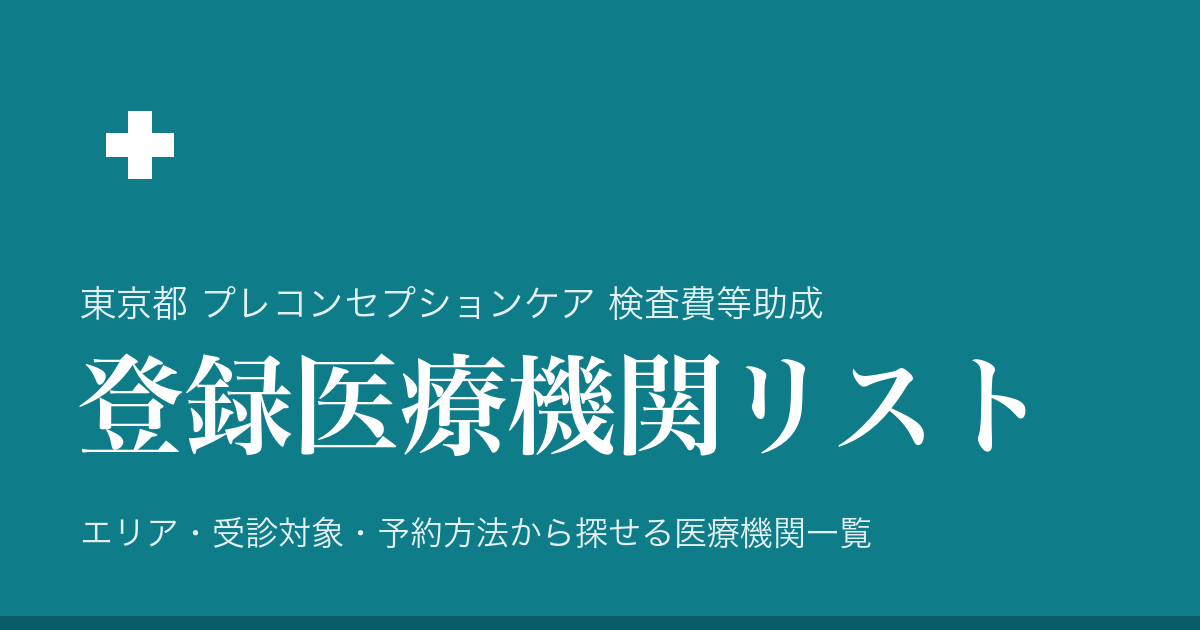
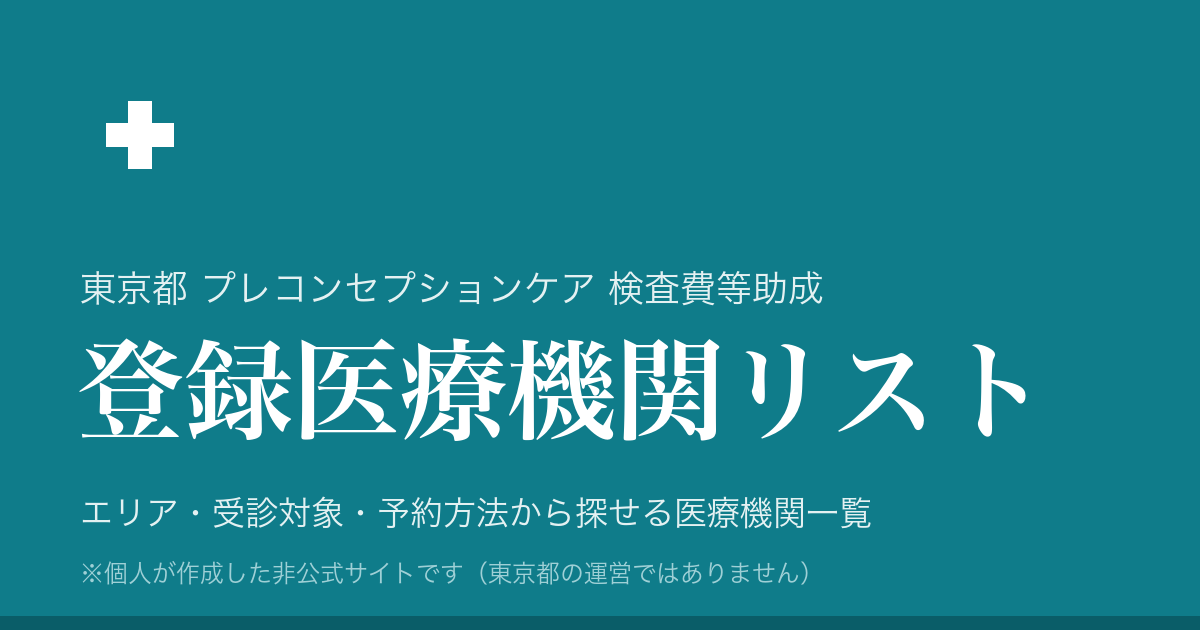
State clearly that the site is unofficial
OGP画像・og:title/description・meta description・title・
ページのヘッダーとフッター・READMEに非公式である旨を明記。

diff --git a/index.html b/index.html
@@ -3,15 +3,15 @@
 <head>
 <meta charset="utf-8">
 <meta name="viewport" content="width=device-width, initial-scale=1">
-<title>プレコンセプションケア 検査費等助成 登録医療機関（令和8年8月31日時点）</title>
+<title>プレコンセプションケア 検査費等助成 登録医療機関（令和8年8月31日時点）｜非公式</title>
 <link rel="icon" href="asset/favicon.svg" type="image/svg+xml">
 <link rel="icon" href="asset/favicon.ico" sizes="32x32">
 <link rel="apple-touch-icon" href="asset/apple-touch-icon.png">
 <meta name="theme-color" content="#0f7c8a">
-<meta name="description" content="東京都のプレコンセプションケア検査費等助成に登録している医療機関の一覧（令和8年8月31日時点）。エリア・受診対象・予約方法から検索できます。">
+<meta name="description" content="東京都のプレコンセプションケア検査費等助成に登録している医療機関の一覧（令和8年8月31日時点）。エリア・受診対象・予約方法から検索できます。個人が作成した非公式サイトであり、東京都が運営するものではありません。">
 <meta property="og:type" content="website">
-<meta property="og:title" content="プレコンセプションケア 検査費等助成 登録医療機関リスト">
-<meta property="og:description" content="東京都のプレコンセプションケア検査費等助成に登録している医療機関の一覧（令和8年8月31日時点）。エリア・受診対象・予約方法から検索できます。">
+<meta property="og:title" content="プレコンセプションケア 検査費等助成 登録医療機関リスト（非公式）">
+<meta property="og:description" content="東京都のプレコンセプションケア検査費等助成に登録している医療機関の一覧（令和8年8月31日時点）。エリア・受診対象・予約方法から検索できます。個人が作成した非公式サイトであり、東京都が運営するものではありません。">
 <meta property="og:url" content="https://shinnosuke-k.github.io/precon-clinics-tokyo/">
 <meta property="og:image" content="https://shinnosuke-k.github.io/precon-clinics-tokyo/asset/ogp.png">
 <meta property="og:image:width" content="1200">
@@ -162,7 +162,7 @@ footer li{margin-bottom:4px}
     <p class="kicker">東京ユースヘルスケア推進事業（プレコンセプションケアに係る取組）／検査費等助成事業</p>
     <h1>登録医療機関リスト<br>令和8年8月31日時点</h1>
     <p class="lede">東京都の助成事業に登録している医療機関の一覧です。エリア・受診できる対象・予約方法から絞り込み、各機関の料金と検査メニューを確認できます。</p>
-    <p class="src">出典：東京都福祉局「<a href="https://www.fukushi.metro.tokyo.lg.jp/kodomo/shussan/preconceptioncare" target="_blank" rel="noopener">プレコンセプションケア</a>」ページ公開の登録医療機関リスト</p>
+    <p class="src">出典：東京都福祉局「<a href="https://www.fukushi.metro.tokyo.lg.jp/kodomo/shussan/preconceptioncare" target="_blank" rel="noopener">プレコンセプションケア</a>」ページ公開の登録医療機関リスト<br>本サイトは個人が作成した非公式のページです（東京都の運営ではありません）</p>
     <div class="facts">
       <span class="fact"><b id="f-total">0</b>機関</span>
       <span class="fact"><b id="f-ward">0</b>区市町村</span>
@@ -220,6 +220,7 @@ footer li{margin-bottom:4px}
       <li>受診にあたり、本事業の助成対象ではない費用がかかる場合があります。予約の際にあらかじめご確認ください。</li>
       <li>料金は各機関が回答した時点のものです（各詳細の末尾に時点を記載）。表示は税込・円。</li>
       <li>このページは東京都福祉局「<a href="https://www.fukushi.metro.tokyo.lg.jp/kodomo/shussan/preconceptioncare" target="_blank" rel="noopener">プレコンセプションケア</a>」ページで公開されているExcel「登録医療機関リスト（令和8年8月31日時点）」を読みやすく組み直したものです。原本の記載を変更していません。</li>
+      <li>本サイトは個人が作成した非公式のページであり、東京都・東京都福祉局が運営するものではありません。</li>
     </ul>
   </div>
 </footer>

diff --git a/README.md b/README.md
@@ -2,6 +2,9 @@
 
 東京都のプレコンセプションケア（検査費等助成）に登録されている医療機関を、地域・条件で絞り込んで検索できる静的ページです。
 
+> [!NOTE]
+> 本サイトは個人が作成した**非公式**のページであり、東京都・東京都福祉局が運営するものではありません。
+
 **公開ページ:** https://shinnosuke-k.github.io/precon-clinics-tokyo/
 
 ## 機能
